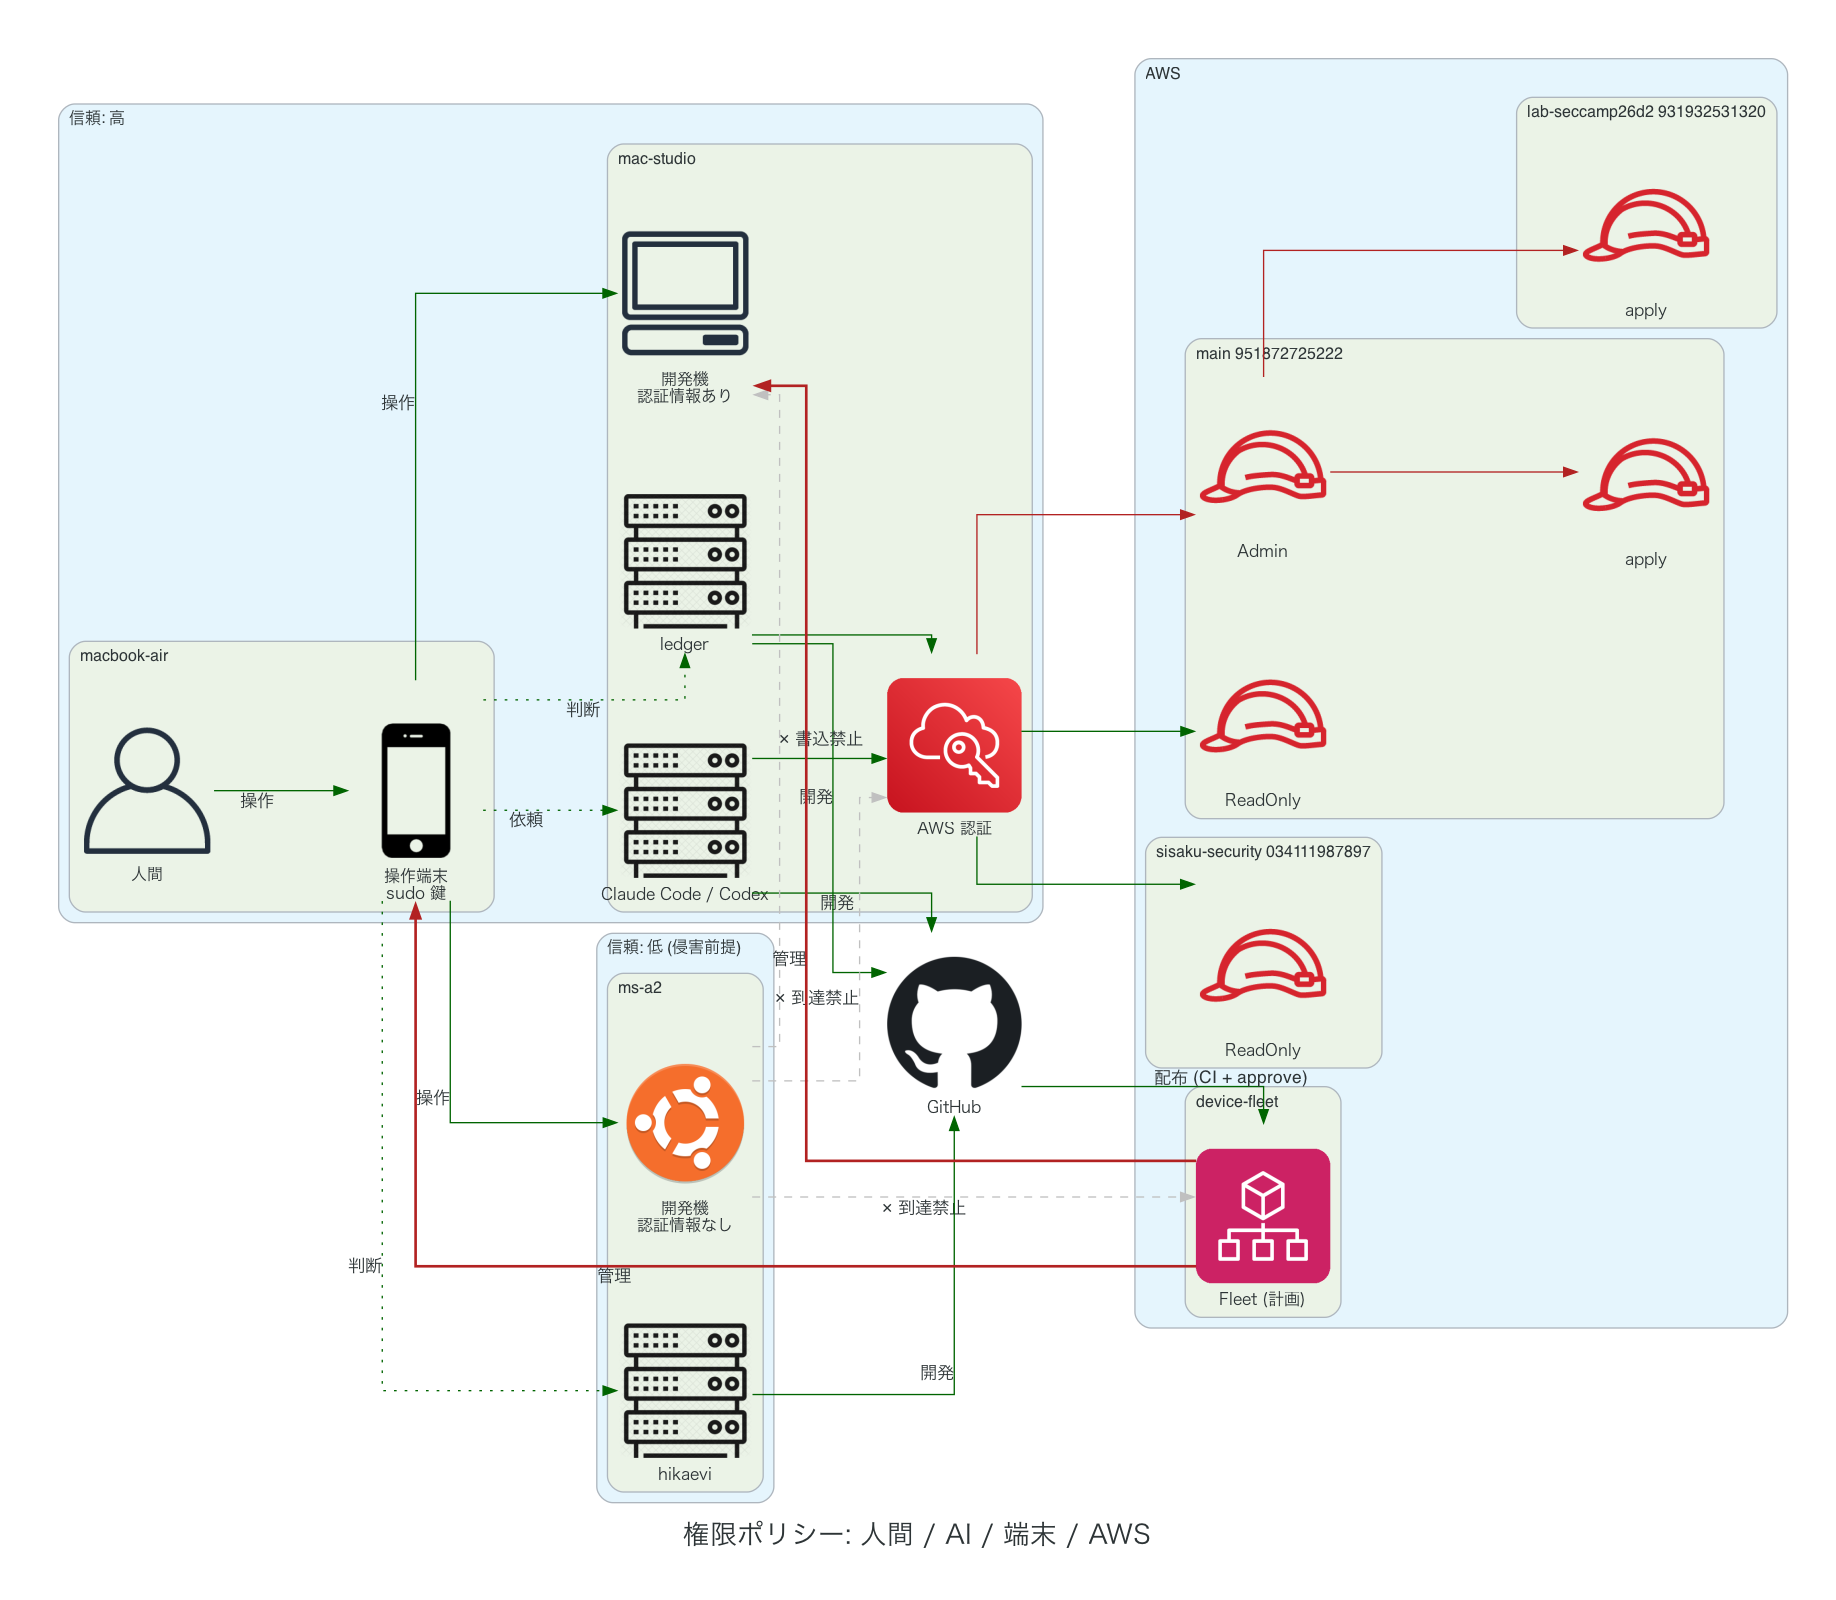
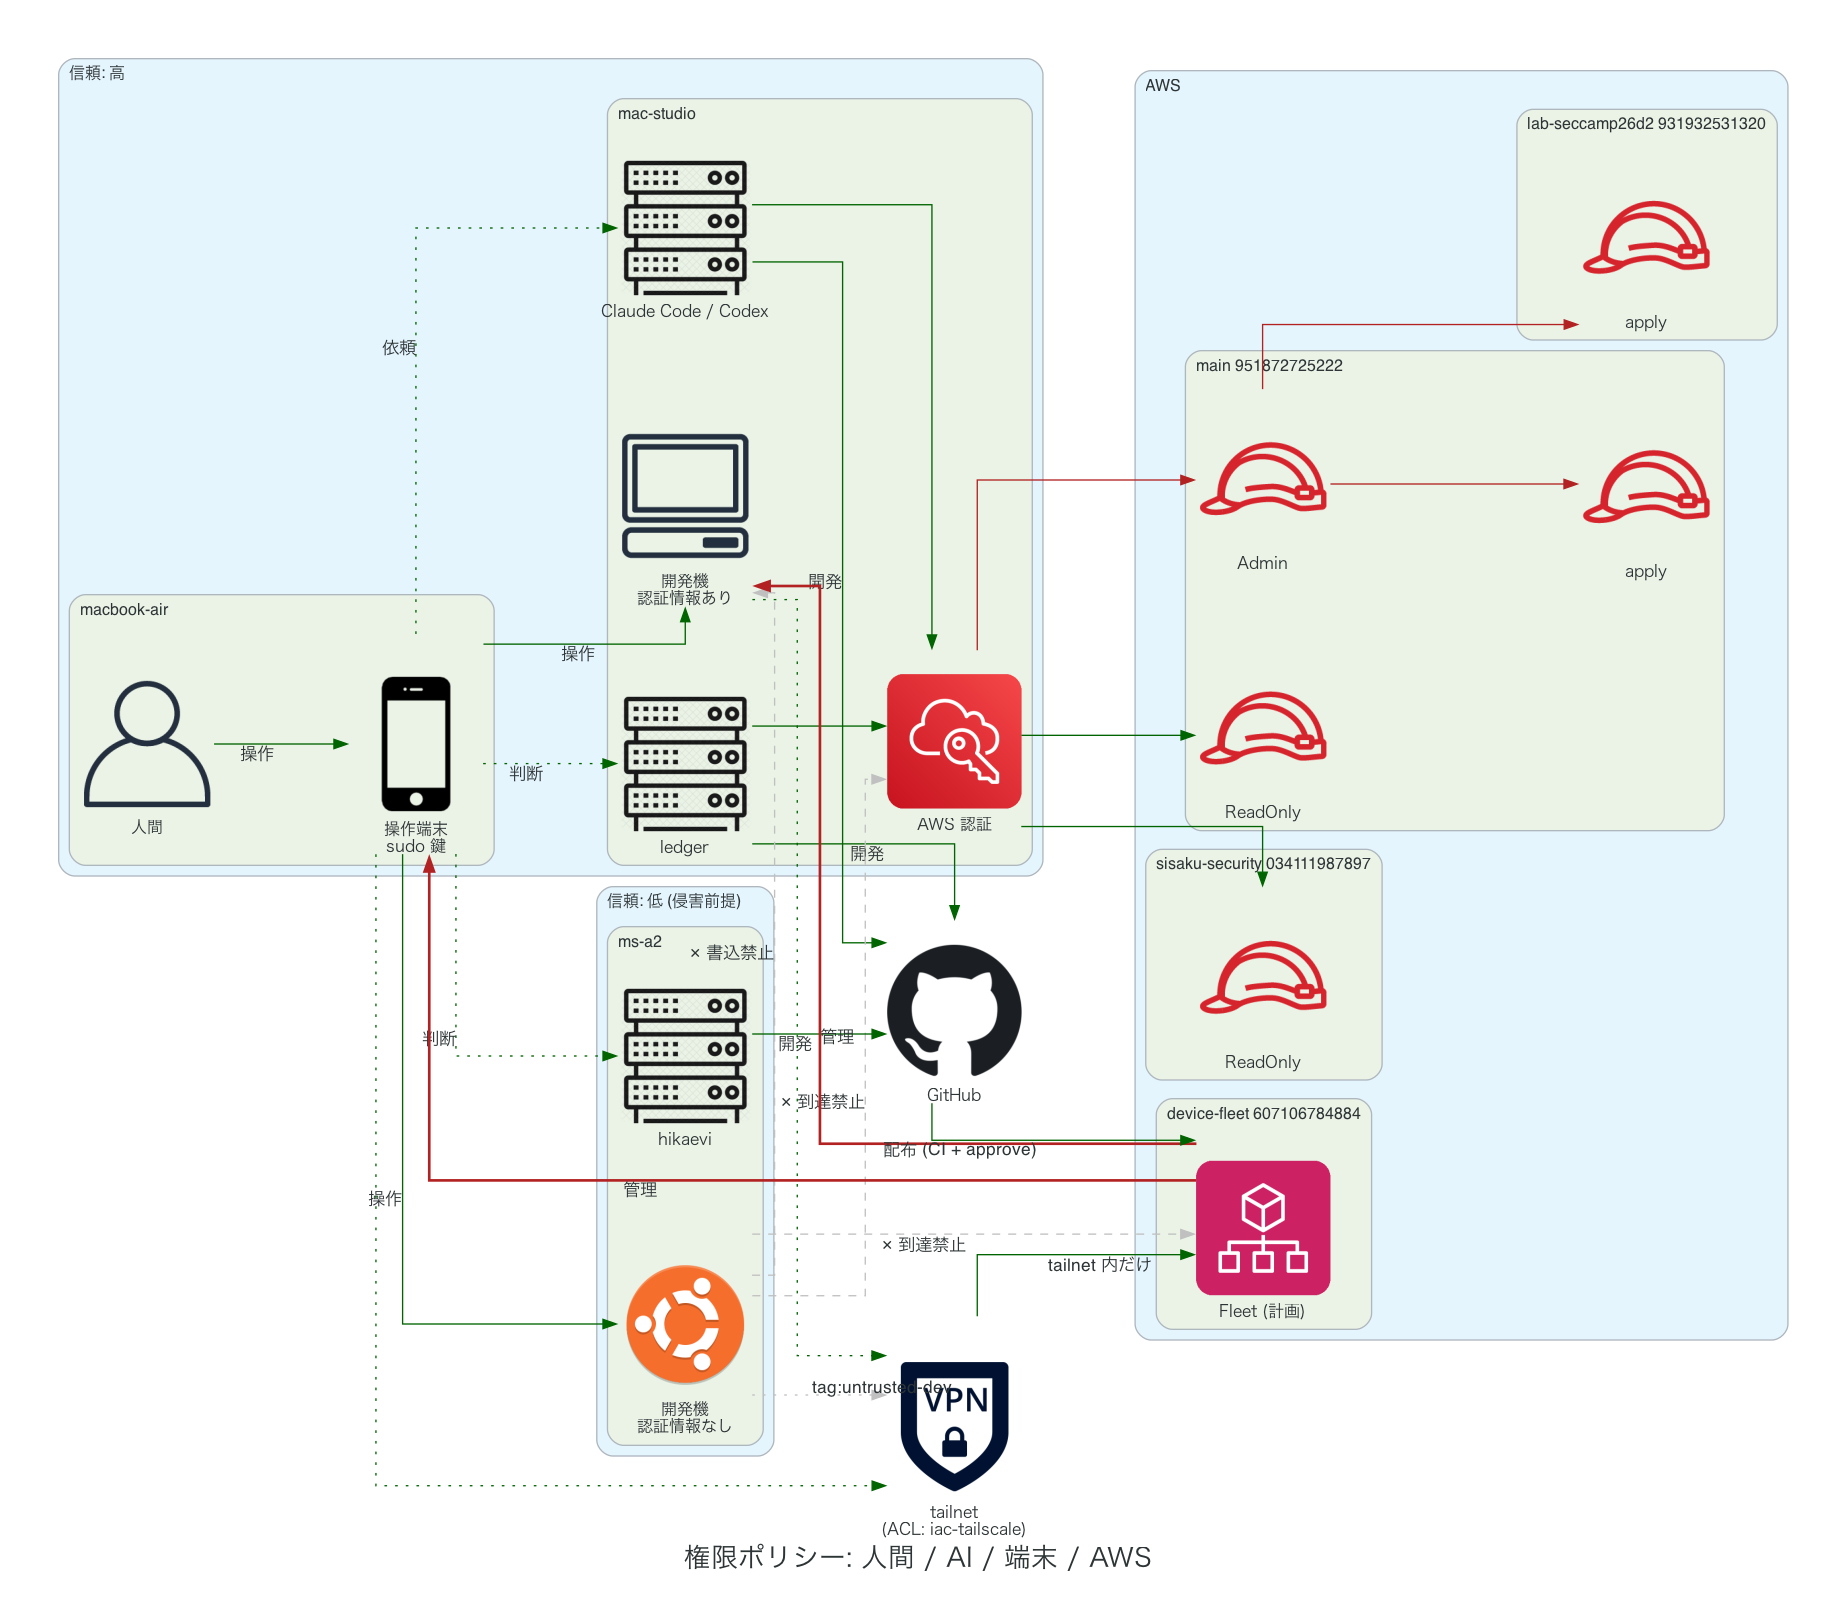
docs(security): tailnet と device-fleet を権限図に加え、端末内部の図を追加

diff --git a/docs/security/device_diagram.py b/docs/security/device_diagram.py
@@ -1,0 +1,83 @@
+# /// script
+# requires-python = ">=3.11"
+# dependencies = ["diagrams==0.24.4"]
+# ///
+"""端末ごとの内部構成 (OS 層・ユーザー層・agent sandbox・資格情報・常駐・更新元) を図にする。
+
+uv run docs/security/device_diagram.py  →  docs/security/device.png
+"""
+
+from pathlib import Path
+
+from diagrams import Cluster, Diagram, Edge
+from diagrams.aws.management import Organizations
+from diagrams.aws.security import SecretsManager, SingleSignOn
+from diagrams.generic.compute import Rack
+from diagrams.generic.os import IOS, LinuxGeneral
+from diagrams.onprem.client import User
+from diagrams.onprem.security import Vault
+from diagrams.onprem.vcs import Github
+
+OUT = Path(__file__).with_name("device")
+
+ALLOW = "darkgreen"
+ROOT = "firebrick"
+DENY = "gray"
+
+graph = {"rankdir": "LR", "fontname": "Hiragino Sans", "fontsize": "20", "pad": "0.5", "nodesep": "0.5", "ranksep": "1.2", "splines": "ortho", "forcelabels": "true"}
+node = {"fontname": "Hiragino Sans", "fontsize": "12"}
+edge = {"fontname": "Hiragino Sans", "fontsize": "11"}
+
+with Diagram(
+    "端末の内部: 層 / sandbox / 資格情報 / 更新元",
+    filename=str(OUT),
+    outformat="png",
+    show=False,
+    graph_attr=graph,
+    node_attr=node,
+    edge_attr=edge,
+):
+    gh = Github("dotfiles\nmain / deploy")
+    fleet = Organizations("Fleet (計画)")
+
+    with Cluster("macbook-air (信頼: 高)"):
+        air_os = IOS("nix-darwin")
+        air_home = User("home-manager")
+        air_key = Vault("sudo 鍵\n(Secretive)")
+        air_tok = Vault("ghtkn token\n(読み取り専用)")
+        air_sync = Rack("dotfiles-sync")
+        air_hub = Rack("gypxy hub")
+
+    with Cluster("mac-studio (信頼: 高)"):
+        studio_os = IOS("nix-darwin")
+        studio_home = User("home-manager")
+        with Cluster("AI agent sandbox"):
+            agent = Rack("Claude Code / Codex")
+        with Cluster("sandbox の外の資格情報"):
+            tok = Vault("ghtkn token")
+            broker = SingleSignOn("AWS 認証 broker")
+            age = SecretsManager("age secret")
+        ledger = Rack("ledger")
+        studio_sync = Rack("dotfiles-sync")
+        studio_hub = Rack("gypxy hub")
+
+    with Cluster("ms-a2 (信頼: 低、侵害前提)"):
+        msa2_os = LinuxGeneral("NixOS\n+ home-manager")
+        hikaevi = Rack("hikaevi")
+        runner = Rack("CI runner\n(job ごと使い捨て)")
+        msa2_hub = Rack("gypxy hub")
+
+    gh >> Edge(color=ROOT, xlabel="deploy") >> fleet
+    fleet >> Edge(color=ROOT, style="bold", xlabel="root") >> air_os
+    fleet >> Edge(color=ROOT, style="bold", xlabel="root") >> studio_os
+    gh >> Edge(color=ALLOW, xlabel="main pull") >> air_sync
+    gh >> Edge(color=ALLOW, xlabel="main pull") >> studio_sync
+    air_sync >> Edge(color=ALLOW) >> air_home
+    studio_sync >> Edge(color=ALLOW) >> studio_home
+    air_os >> Edge(color=ALLOW) >> air_home
+    studio_os >> Edge(color=ALLOW) >> studio_home
+
+    agent >> Edge(color=ALLOW, xlabel="仲介") >> tok
+    agent >> Edge(color=ALLOW, xlabel="仲介") >> broker
+    agent >> Edge(color=DENY, style="dashed", xlabel="✕ 読めない") >> age
+    ledger >> Edge(color=ALLOW) >> broker

diff --git a/docs/security/policy_diagram.py b/docs/security/policy_diagram.py
@@ -15,6 +15,7 @@ from diagrams.aws.management import Organizations
 from diagrams.aws.security import IAMRole, SingleSignOn
 from diagrams.generic.compute import Rack
 from diagrams.generic.device import Mobile
+from diagrams.generic.network import VPN
 from diagrams.generic.os import Ubuntu
 from diagrams.onprem.client import Client
 from diagrams.onprem.vcs import Github
@@ -60,12 +61,13 @@ with Diagram(
             apply = IAMRole("apply")
         with Cluster("sisaku-security 034111987897"):
             sisaku = IAMRole("ReadOnly")
-        with Cluster("device-fleet"):
+        with Cluster("device-fleet 607106784884"):
             fleet = Organizations("Fleet (計画)")
         with Cluster("lab-seccamp26d2 931932531320"):
             lab = IAMRole("apply")
 
     gh = Github("GitHub")
+    tailnet = VPN("tailnet\n(ACL: iac-tailscale)")
 
     human >> Edge(color=ALLOW, xlabel="操作") >> air
     air >> Edge(color=ALLOW, xlabel="操作") >> studio
@@ -87,6 +89,11 @@ with Diagram(
     gh >> Edge(color=ALLOW, xlabel="配布 (CI + approve)") >> fleet
     fleet >> Edge(color=ROOT, style="bold", xlabel="管理") >> air
     fleet >> Edge(color=ROOT, style="bold", xlabel="管理") >> studio
+
+    for host in (air, studio):
+        host >> Edge(color=ALLOW, style="dotted", dir="both") >> tailnet
+    msa2 >> Edge(color=DENY, style="dotted", xlabel="tag:untrusted-dev") >> tailnet
+    tailnet >> Edge(color=ALLOW, xlabel="tailnet 内だけ") >> fleet
 
     for dst, why in [(studio, "書込禁止"), (broker, "到達禁止"), (fleet, "到達禁止")]:
         msa2 >> Edge(color=DENY, style="dashed", xlabel=f"✕ {why}") >> dst

diff --git a/README.md b/README.md
@@ -6,10 +6,13 @@ hikae's development environment, declared so that any machine can be rebuilt fro
 
 - **Reproducible.** Every package, setting, and background service is declared in a Nix flake. A new or wiped machine reaches the same state from one command; nothing is configured by hand.
 - **Verifiable supply chain.** Software comes only from binary caches, checksummed releases, or signed upstream installers. Nothing is built from source locally, so what runs is what was reviewed.
+- **Gated distribution.** Fleet, isolated in its own AWS account, pushes only what passed CI and the owner approved.
 - **Least privilege by trust tier.** Machines, humans, AI agents, and AWS accounts each get only the access their role needs. A machine assumed compromised can never write to a trusted one. See the [threat model](docs/security/threat-model.md) and [policy diagram](docs/security/policy.png).
 - **No standing secrets.** Credentials are short-lived and brokered; secrets are encrypted at rest and handed only to the repository that needs them.
 - **Self-maintaining.** Inputs update weekly behind a CI gate, machines pull `main` daily, and audits report drift instead of letting it accumulate.
 - **Safe for agents.** Interactive agents act on a human's request. Autonomous agents (`ledger` on mac-studio, `hikaevi` on ms-a2) run without instructions and involve a human only for decisions. Agents share centrally managed instructions and hold no long-lived credentials.
+
+![Permission policy across humans, agents, machines, and AWS](docs/security/policy.png)
 
 ## Machines
 
